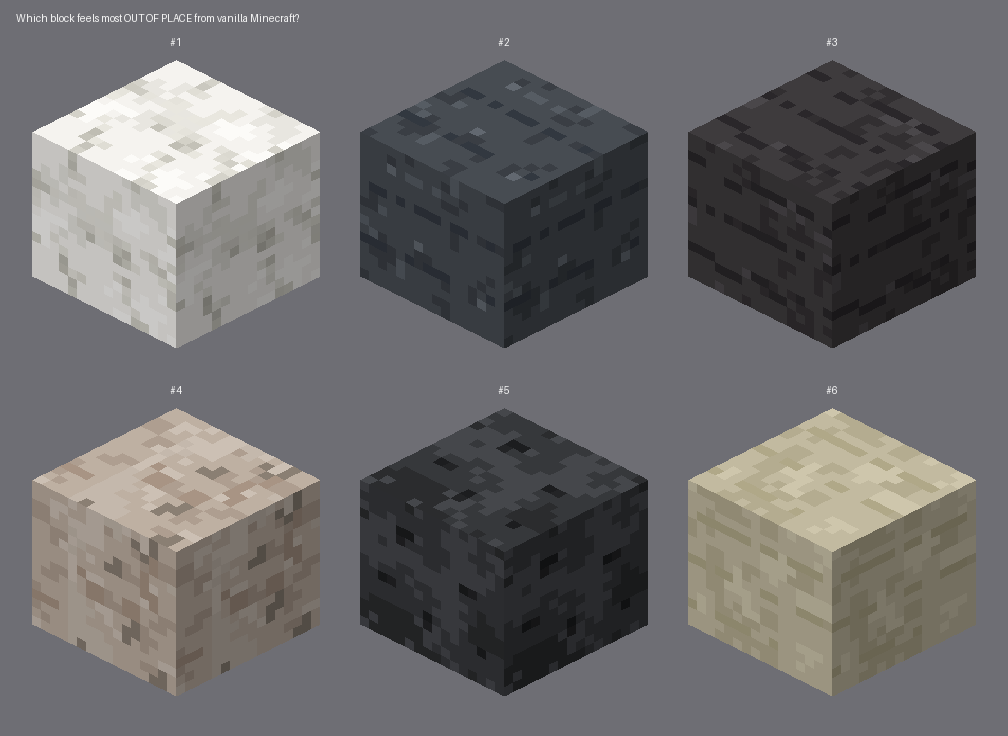
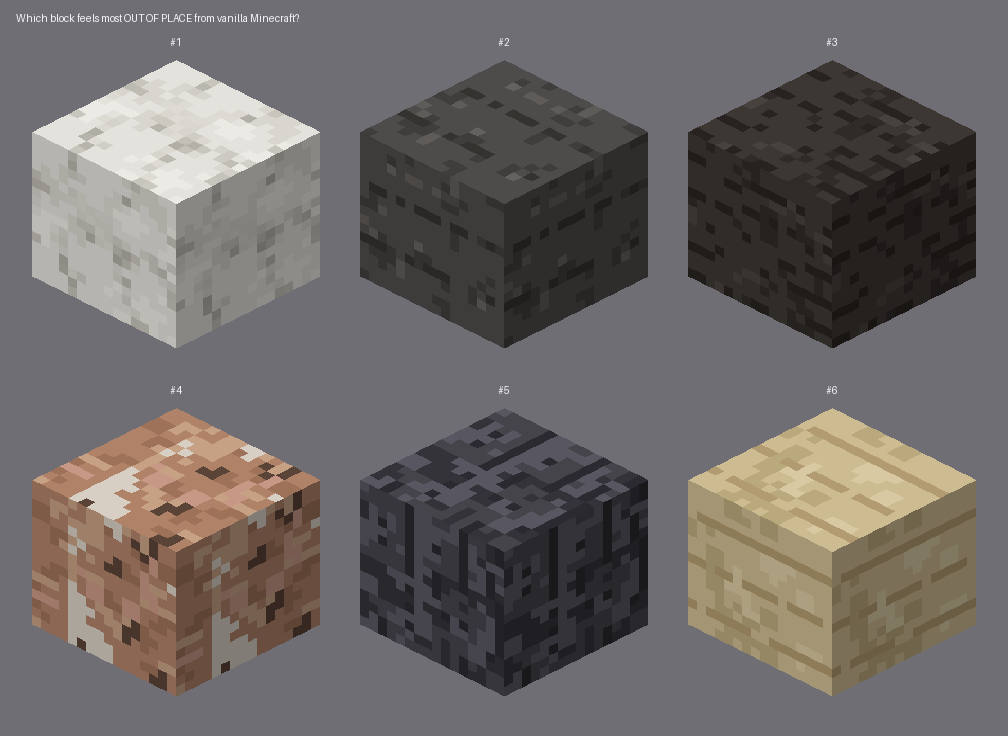
mc-style: apply cross-section review — warm granite, striated basalt, marble veins, shale/sandstone bedding + columns engine feature

diff --git a/gallery/2026-07-21-stone-practice/src/stonegen.py b/gallery/2026-07-21-stone-practice/src/stonegen.py
@@ -98,6 +98,23 @@ def apply_bands(px, spec, key):
                 px[x, yy] = color
 
 
+def apply_columns(px, spec):
+    """Vertical striations (mirror of apply_bands) — basalt's columnar-jointing signature. Draws
+    darker vertical streaks at the given x positions; keep the texture directional (orient hflip)."""
+    c = spec.get("columns")
+    if not c:
+        return
+    color = hexc(c["color"])
+    dens = c.get("density", 0.6)
+    wavy = c.get("wavy", False)
+    seed = spec.get("seed", 1)
+    for lx in c["cols"]:
+        for y in range(N):
+            xx = (lx + (1 if (wavy and h2(y // 3, lx, seed + 17) < 0.3) else 0)) % N
+            if h2(lx, y, seed + 18) < dens:
+                px[xx, y] = color
+
+
 def apply_veins(px, spec):
     for i, v in enumerate(spec.get("veins", [])):
         color, core = hexc(v["color"]), hexc(v["core"])
@@ -183,6 +200,7 @@ def render(spec):
     fill_base(px, spec)
     apply_bands(px, spec, "laminae")
     apply_bands(px, spec, "bedding")
+    apply_columns(px, spec)
     apply_minerals(px, spec)
     apply_veins(px, spec)
     apply_anchor_veins(px, spec)
